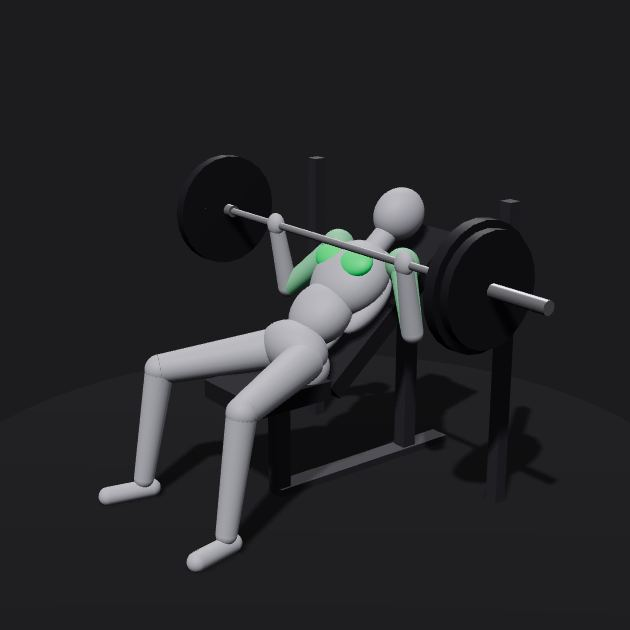
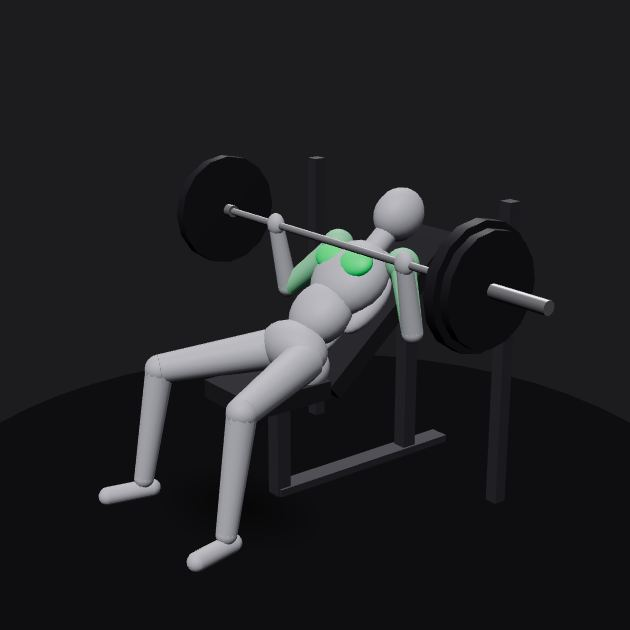
3D demo performance: poster image first and load on tap, 1.5x pixel ratio, blob shadow instead of shadow maps, 30 fps cap, auto-stop after 20 s, lighter geometry
Claude-Session: https://claude.ai/code/session_012kczc3KZQR6xpQ2zs53NkB

diff --git a/gym-logger/src/features/exercise/demo3d/scene.ts b/gym-logger/src/features/exercise/demo3d/scene.ts
@@ -6,6 +6,10 @@ import type { MuscleGroup } from '../../../db/types';
 import { BODY, FOOT_R, RADII, trunkPoint, type Joints, type V3 } from './rig';
 import { sample, type Move } from './moves';
 
+const FRAME_MS = 1000 / 30;
+/** Sekunder demoen spiller før den stopper av seg selv. */
+export const AUTO_STOP_S = 20;
+
 const SKIN = '#a3a3ab';
 const PROP = '#3b3b41';
 const METAL = '#c9c9cf';
@@ -24,9 +28,8 @@ const v = (p: V3) => new THREE.Vector3(p[0], p[1], p[2]);
 class Limb {
   mesh: THREE.Mesh;
   constructor(length: number, r: readonly [number, number], mat: THREE.Material, parent: THREE.Object3D) {
-    const geo = new THREE.CylinderGeometry(r[1], r[0], length, 20, 1);
+    const geo = new THREE.CylinderGeometry(r[1], r[0], length, 12, 1);
     this.mesh = new THREE.Mesh(geo, mat);
-    this.mesh.castShadow = true;
     parent.add(this.mesh);
   }
   place(a: V3, b: V3) {
@@ -39,21 +42,18 @@ class Limb {
 }
 
 function blob(mat: THREE.Material, parent: THREE.Object3D, r: number, s: V3 = [1, 1, 1], at: V3 = [0, 0, 0]) {
-  const m = new THREE.Mesh(new THREE.SphereGeometry(r, 24, 16), mat);
+  const m = new THREE.Mesh(new THREE.SphereGeometry(r, 16, 12), mat);
   m.scale.set(s[0], s[1], s[2]);
   m.position.set(at[0], at[1], at[2]);
-  m.castShadow = true;
   parent.add(m);
   return m;
 }
 
 function cyl(mat: THREE.Material, parent: THREE.Object3D, r: number, length: number, axis: 'x' | 'y' | 'z', at: V3) {
-  const m = new THREE.Mesh(new THREE.CylinderGeometry(r, r, length, 24), mat);
+  const m = new THREE.Mesh(new THREE.CylinderGeometry(r, r, length, 16), mat);
   if (axis === 'x') m.rotation.z = Math.PI / 2;
   if (axis === 'z') m.rotation.x = Math.PI / 2;
   m.position.set(at[0], at[1], at[2]);
-  m.castShadow = true;
-  m.receiveShadow = true;
   parent.add(m);
   return m;
 }
@@ -61,8 +61,6 @@ function cyl(mat: THREE.Material, parent: THREE.Object3D, r: number, length: num
 function box(mat: THREE.Material, parent: THREE.Object3D, size: V3, at: V3) {
   const m = new THREE.Mesh(new THREE.BoxGeometry(size[0], size[1], size[2]), mat);
   m.position.set(at[0], at[1], at[2]);
-  m.castShadow = true;
-  m.receiveShadow = true;
   parent.add(m);
   return m;
 }
@@ -88,6 +86,7 @@ export class DemoScene {
   private limbs: Record<string, Limb[]> = {};
   private joints: Record<string, THREE.Mesh[]> = {};
   private torso = new THREE.Group();
+  private shadow?: THREE.Mesh;
   private feet: THREE.Mesh[] = [];
   private bar?: THREE.Group;
   private dumbbells: THREE.Group[] = [];
@@ -100,10 +99,9 @@ export class DemoScene {
     opts: SceneOptions,
   ) {
     this.renderer = new THREE.WebGLRenderer({ canvas, antialias: true, alpha: true, preserveDrawingBuffer: false });
-    this.renderer.setPixelRatio(Math.min(window.devicePixelRatio || 1, 2));
-    this.renderer.shadowMap.enabled = true;
-    this.renderer.shadowMap.type = THREE.PCFSoftShadowMap;
-    this.renderer.outputColorSpace = THREE.SRGBColorSpace;
+    // Ytelse: maks 1,5× skarphet og ingen sanntidsskygger (en myk skygge-flekk under figuren i stedet).
+    this.renderer.setPixelRatio(Math.min(window.devicePixelRatio || 1, 1.5));
+        this.renderer.outputColorSpace = THREE.SRGBColorSpace;
     this.renderer.toneMapping = THREE.ACESFilmicToneMapping;
 
     this.lights();
@@ -130,17 +128,6 @@ export class DemoScene {
     this.scene.add(new THREE.HemisphereLight(0xffffff, 0x303036, 1.5));
     const key = new THREE.DirectionalLight(0xffffff, 2.2);
     key.position.set(2.2, 4.5, 3);
-    key.castShadow = true;
-    key.shadow.mapSize.set(1024, 1024);
-    const c = key.shadow.camera;
-    c.left = -2;
-    c.right = 2;
-    c.top = 3;
-    c.bottom = -1;
-    c.near = 0.5;
-    c.far = 12;
-    key.shadow.bias = -0.0005;
-    key.shadow.radius = 4;
     this.scene.add(key);
     const rim = new THREE.DirectionalLight(0xffffff, 0.8);
     rim.position.set(-3, 2.5, -2.5);
@@ -148,10 +135,25 @@ export class DemoScene {
   }
 
   private floor() {
-    const floor = new THREE.Mesh(new THREE.CircleGeometry(1.5, 64), new THREE.MeshStandardMaterial({ color: '#202023', roughness: 1 }));
+    const floor = new THREE.Mesh(new THREE.CircleGeometry(1.5, 48), new THREE.MeshBasicMaterial({ color: '#202023' }));
     floor.rotation.x = -Math.PI / 2;
-    floor.receiveShadow = true;
     this.scene.add(floor);
+    // Myk skygge-flekk som følger figuren (billig erstatning for sanntidsskygger).
+    const c = document.createElement('canvas');
+    c.width = c.height = 64;
+    const g = c.getContext('2d');
+    if (g) {
+      const grad = g.createRadialGradient(32, 32, 0, 32, 32, 32);
+      grad.addColorStop(0, 'rgba(0,0,0,0.55)');
+      grad.addColorStop(1, 'rgba(0,0,0,0)');
+      g.fillStyle = grad;
+      g.fillRect(0, 0, 64, 64);
+    }
+    this.shadow = new THREE.Mesh(new THREE.PlaneGeometry(1, 1), new THREE.MeshBasicMaterial({ map: new THREE.CanvasTexture(c), transparent: true, depthWrite: false }));
+    this.shadow.rotation.x = -Math.PI / 2;
+    this.shadow.position.y = 0.002;
+    this.shadow.scale.set(0.8, 0.55, 1);
+    this.scene.add(this.shadow);
   }
 
   private materials(opts: SceneOptions) {
@@ -184,8 +186,7 @@ export class DemoScene {
     this.joints.hand = [0, 1].map(() => blob(m.skin, s, 0.04, [1, 1.15, 0.8]));
     this.joints.delt = [0, 1].map(() => blob(m.muscle('Skuldre'), s, 0.064));
     this.feet = [0, 1].map(() => {
-      const f = new THREE.Mesh(new THREE.CapsuleGeometry(FOOT_R, 0.17, 6, 16), m.skin);
-      f.castShadow = true;
+      const f = new THREE.Mesh(new THREE.CapsuleGeometry(FOOT_R, 0.17, 4, 10), m.skin);
       s.add(f);
       return f;
     });
@@ -306,6 +307,12 @@ export class DemoScene {
       this.feet[i].quaternion.setFromUnitVectors(Y, dir.normalize());
     }
     this.torso.position.set(...j.pelvis);
+    if (this.shadow) {
+      // Liggende eller hengende figur: flekken under midten av kroppen.
+      const mid = v(j.ankles[0]).add(v(j.ankles[1])).multiplyScalar(0.25).add(v(j.pelvis).multiplyScalar(0.5));
+      this.shadow.position.x = mid.x;
+      this.shadow.position.z = mid.z;
+    }
     this.torso.rotation.x = (j.trunk * Math.PI) / 180;
     const mid = v(j.wrists[0]).add(v(j.wrists[1])).multiplyScalar(0.5);
     if (this.bar) this.bar.position.copy(mid);
@@ -365,14 +372,26 @@ export class DemoScene {
     this.requestRender();
   }
 
+  /** Sekunder animasjonen har gått siden siste start. Stopper av seg selv etter AUTO_STOP for å spare batteri. */
+  private playedFor = 0;
+  private lastFrame = 0;
+  onAutoPause?: () => void;
+
   private tick = (now: number) => {
     this.raf = 0;
-    const dt = Math.min(0.1, (now - this.last) / 1000);
-    this.last = now;
     if (!this.visible) return;
     const animating = this.playing;
+    // Maks 30 bilder i sekundet: godt nok for en rolig demo og halvparten av arbeidet.
+    if (animating && now - this.lastFrame < FRAME_MS - 2) {
+      this.raf = requestAnimationFrame(this.tick);
+      return;
+    }
+    const dt = Math.min(0.1, (now - this.last) / 1000);
+    this.last = now;
+    this.lastFrame = now;
     if (animating) {
       this.phase = (this.phase + (dt * this.speed) / this.move.duration) % 1;
+      this.playedFor += dt;
       this.update(this.phase);
     }
     const damping = this.controls.update();
@@ -380,12 +399,18 @@ export class DemoScene {
       this.renderer.render(this.scene, this.camera);
       this.needsRender = false;
     }
+    if (animating && this.playedFor >= AUTO_STOP_S) {
+      this.playing = false;
+      this.onAutoPause?.();
+      return;
+    }
     if (animating || damping) this.raf = requestAnimationFrame(this.tick);
   };
 
   /** Fortsetter animasjonen (etter pause). */
   play() {
     this.playing = true;
+    this.playedFor = 0;
     this.last = performance.now();
     this.requestRender();
   }

diff --git a/gym-logger/src/features/exercise/demo3d/index.tsx b/gym-logger/src/features/exercise/demo3d/index.tsx
@@ -1,4 +1,6 @@
-import { lazy, Suspense } from 'react';
+import { lazy, Suspense, useState } from 'react';
+import { Icon } from '../../../components/Icon';
+import { exerciseName } from '../../../lib/exerciseName';
 import type { Exercise } from '../../../db/types';
 import { NB_NAMED } from '../../../db/library';
 import { t } from '../../../i18n';
@@ -9,8 +11,34 @@ const ExerciseDemo3D = lazy(() => import('./ExerciseDemo3D'));
 /** De 12 store løftene har 3D-demo (samme liste som beholder norsk navn; testene sjekker at de stemmer). */
 export const hasDemo = (ex: Pick<Exercise, 'id' | 'custom'>) => !ex.custom && NB_NAMED.has(ex.id.replace(/^ex-/, ''));
 
+/**
+ * 3D-demo for de store løftene. Viser først et stillbilde med ▶; three.js lastes og starter først
+ * når brukeren trykker, så siden er like rask som før for dem som bare vil lese.
+ */
 export function ExerciseDemo({ exercise }: { exercise: Exercise }) {
+  const [started, setStarted] = useState(false);
   if (!hasDemo(exercise)) return null;
+  const slug = exercise.id.replace(/^ex-/, '');
+  const name = exerciseName(exercise);
+  if (!started) {
+    return (
+      <button
+        type="button"
+        onClick={() => setStarted(true)}
+        className="relative block aspect-square w-full overflow-hidden rounded-xl border border-line bg-raised"
+        aria-label={t(`Vis 3D-demo av ${name}`, `Show 3D demo of ${name}`)}
+        data-demo-poster={slug}
+      >
+        <img src={`${import.meta.env.BASE_URL}demos/${slug}.jpg`} alt="" className="h-full w-full object-contain" loading="lazy" />
+        <span className="absolute inset-0 grid place-items-center">
+          <span className="flex items-center gap-2 rounded-full bg-bg/80 px-4 py-2.5 text-sm font-semibold">
+            <Icon name="play" size={18} filled />
+            {t('Se 3D-demo', 'Watch 3D demo')}
+          </span>
+        </span>
+      </button>
+    );
+  }
   return (
     <Suspense
       fallback={

diff --git a/gym-logger/src/features/exercise/demo3d/ExerciseDemo3D.tsx b/gym-logger/src/features/exercise/demo3d/ExerciseDemo3D.tsx
@@ -8,8 +8,6 @@ import { t, useLang } from '../../../i18n';
 import { moveFor, type Move } from './moves';
 import { DemoScene, hasWebGL } from './scene';
 
-const reducedMotion = () => typeof window !== 'undefined' && window.matchMedia?.('(prefers-reduced-motion: reduce)').matches;
-
 /** Bilde som vises når nettleseren ikke kan tegne 3D. */
 function Still({ move, name }: { move: Move; name: string }) {
   return (
@@ -30,7 +28,7 @@ export default function ExerciseDemo3D({ exercise }: { exercise: Exercise }) {
   const wrap = useRef<HTMLDivElement>(null);
   const sceneRef = useRef<DemoScene | null>(null);
   const [webgl] = useState(hasWebGL);
-  const [playing, setPlaying] = useState(() => !reducedMotion());
+  const [playing, setPlaying] = useState(true);
   const [slow, setSlow] = useState(false);
   const [view, setView] = useState<Move['view']>(move.view);
   const [cue, setCue] = useState<[string, string] | undefined>(move.keys[0].cue);
@@ -46,10 +44,7 @@ export default function ExerciseDemo3D({ exercise }: { exercise: Exercise }) {
     }
     sceneRef.current = scene;
     scene.onCue = setCue;
-    if (reducedMotion()) {
-      scene.pause();
-      scene.setPhase(move.still);
-    }
+    scene.onAutoPause = () => setPlaying(false);
     const el = wrap.current;
     const ro = new ResizeObserver(([e]) => scene.resize(e.contentRect.width, e.contentRect.height));
     ro.observe(el);
